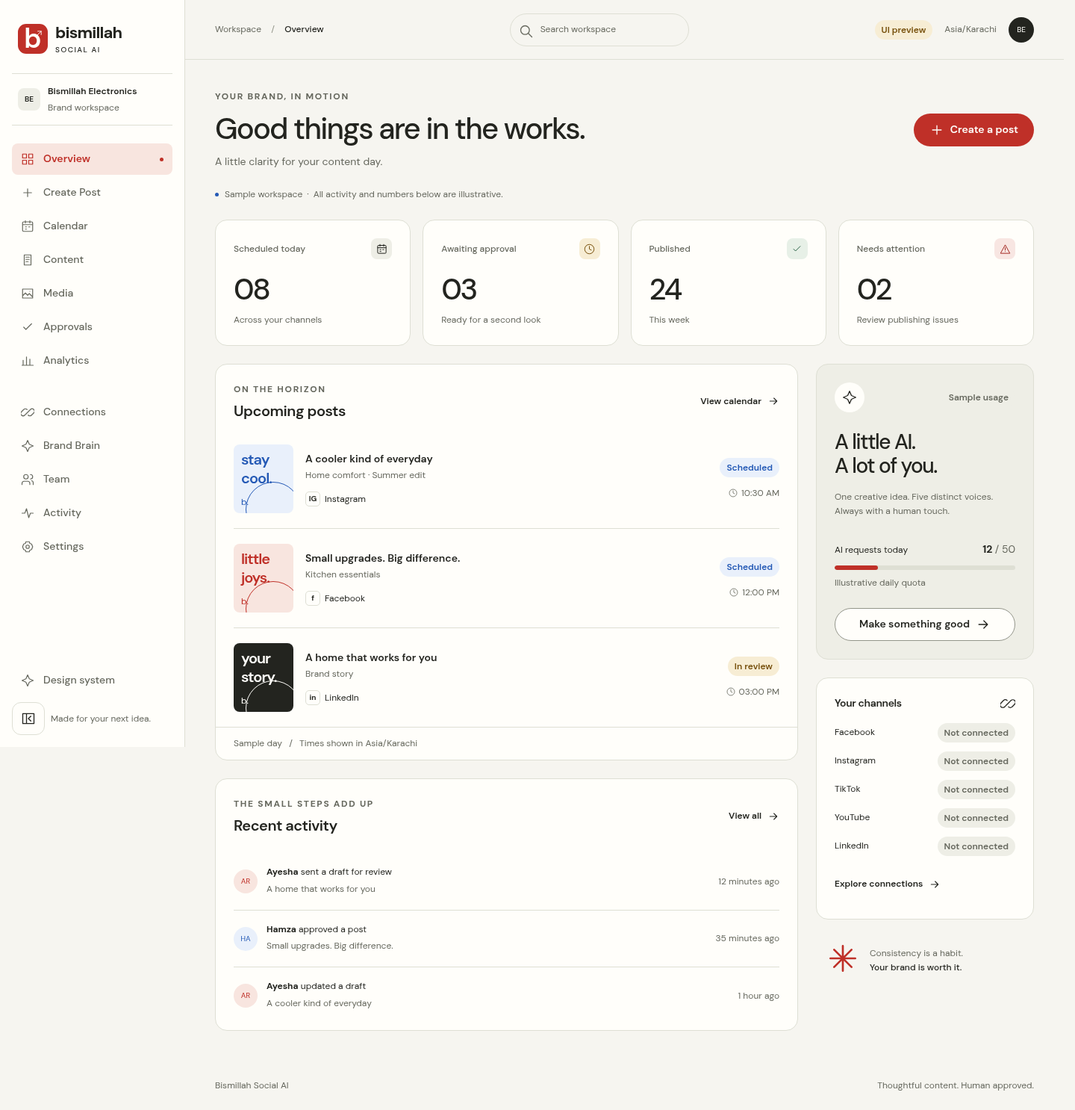
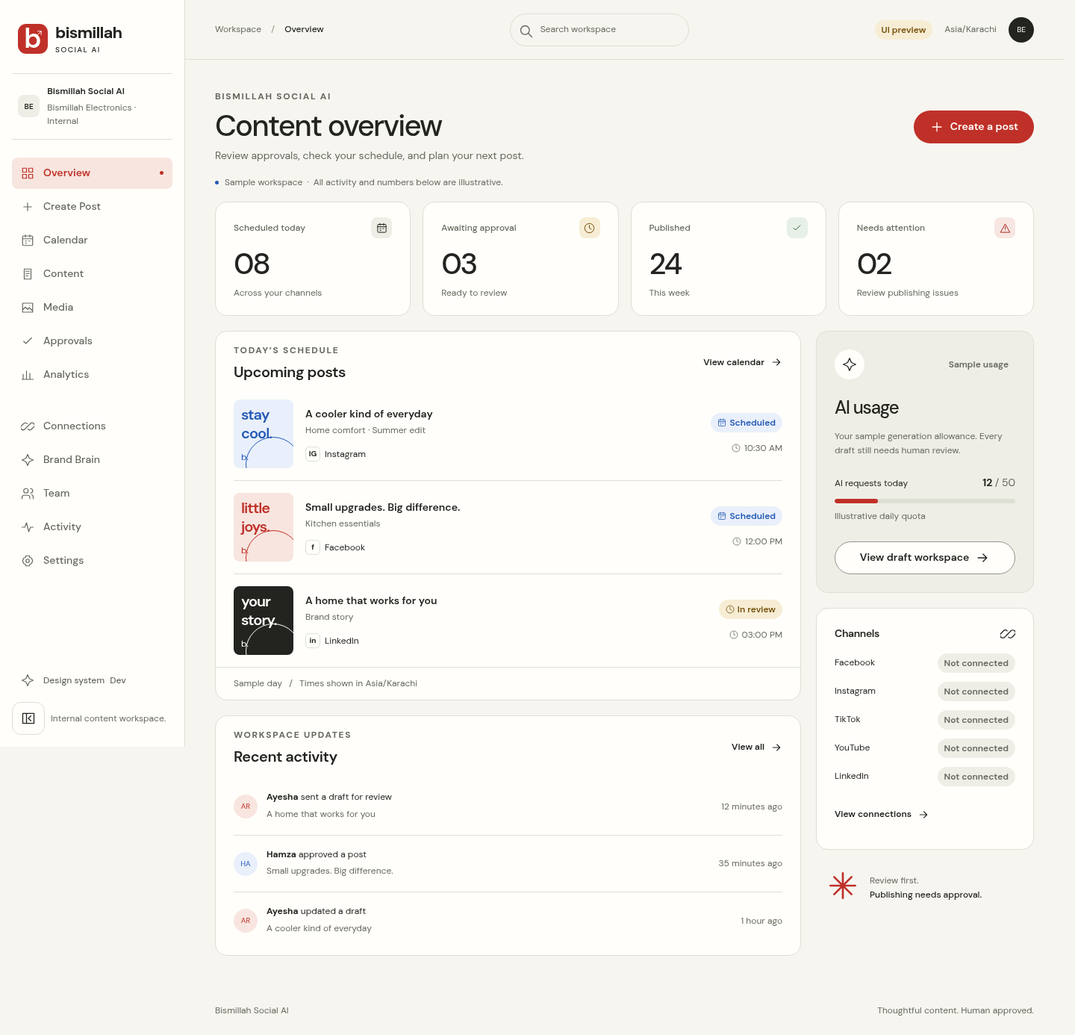
feat: establish phase 1 application shell and design system

diff --git a/src/features/overview/overview.tsx b/src/features/overview/overview.tsx
@@ -1,5 +1,5 @@
 import Link from 'next/link';
-import { Badge } from '../../components/ui/badge';
+import { Badge, StatusBadge } from '../../components/ui/badge';
 import { buttonClass } from '../../components/ui/button';
 import { Card } from '../../components/ui/card';
 import { Icon } from '../../components/ui/icon';
@@ -7,5 +7,5 @@ import { PageHeader } from '../../components/ui/page-header';
 import { sampleActivity, sampleMetrics, samplePosts } from './mock-data';
 
 export function Overview() {
-  return <><PageHeader eyebrow="YOUR BRAND, IN MOTION" title="Good things are in the works." description="A little clarity for your content day." action={<Link href="/create-post" className={buttonClass()}><Icon name="plus" /> Create a post</Link>} /><div className="sample-note"><span className="sample-dot" />Sample workspace <span aria-hidden="true">·</span> All activity and numbers below are illustrative.</div><div className="metrics-grid">{sampleMetrics.map((metric) => <Card key={metric.label} className="metric-card"><div className="metric-label"><h2>{metric.label}</h2><span className={`metric-icon metric-icon--${metric.tone}`}><Icon name={metric.icon} /></span></div><p className="metric-value">{metric.value}</p><p className="metric-note">{metric.note}</p></Card>)}</div><div className="overview-grid"><div className="overview-main"><Card className="upcoming-card"><header className="section-header"><div><p className="eyebrow">ON THE HORIZON</p><h2>Upcoming posts</h2></div><Link href="/calendar" className="text-link">View calendar <Icon name="arrow" /></Link></header><div className="post-list">{samplePosts.map((post) => <article key={post.title} className="post-row"><div className={`post-art post-art--${post.art}`} aria-hidden="true"><span>{post.art === 'cool' ? 'stay\ncool.' : post.art === 'warm' ? 'little\njoys.' : 'your\nstory.'}</span><span className="post-art-mark">b.</span></div><div className="post-info"><h3>{post.title}</h3><p>{post.category}</p><div className="post-channel"><span className="channel-mark">{post.initials}</span>{post.channel}</div></div><div className="post-meta"><Badge tone={post.tone}>{post.status}</Badge><span><Icon name="clock" />{post.time}</span></div></article>)}</div><footer className="card-footer">Sample day <span aria-hidden="true">/</span> Times shown in Asia/Karachi</footer></Card><Card className="activity-card"><header className="section-header"><div><p className="eyebrow">THE SMALL STEPS ADD UP</p><h2>Recent activity</h2></div><Link href="/activity" className="text-link">View all <Icon name="arrow" /></Link></header><ol className="activity-list">{sampleActivity.map((item) => <li key={item.detail}><span className={`activity-avatar activity-avatar--${item.tone}`}>{item.initials}</span><div><p><strong>{item.name}</strong> {item.action}</p><span>{item.detail}</span></div><small>{item.time}</small></li>)}</ol></Card></div><div className="overview-side"><Card className="ai-card"><header><span className="ai-icon"><Icon name="spark" /></span><Badge>Sample usage</Badge></header><h2>A little AI.<br />A lot of you.</h2><p>One creative idea. Five distinct voices. Always with a human touch.</p><div className="usage-caption"><span>AI requests today</span><strong>12 <span>/ 50</span></strong></div><progress max={50} value={12} aria-label="Sample AI requests today: 12 of 50" /><p className="usage-footnote">Illustrative daily quota</p><Link href="/create-post" className={buttonClass('secondary')}>Make something good <Icon name="arrow" /></Link></Card><Card className="channel-card"><div className="section-header"><h2>Your channels</h2><Icon name="link" /></div><div className="channel-stack">{['Facebook', 'Instagram', 'TikTok', 'YouTube', 'LinkedIn'].map((channel) => <div key={channel}><span>{channel}</span><Badge>Not connected</Badge></div>)}</div><Link href="/connections" className="text-link">Explore connections <Icon name="arrow" /></Link></Card><div className="brand-reminder"><span className="tiny-star"><Icon name="asterisk" /></span><p>Consistency is a habit.<br /><strong>Your brand is worth it.</strong></p></div></div></div></>;
+  return <div className="dashboard-overview"><PageHeader eyebrow="BISMILLAH SOCIAL AI" title="Content overview" description="Review approvals, check your schedule, and plan your next post." action={<Link href="/create-post" className={buttonClass()}><Icon name="plus" /> Create a post</Link>} /><div className="sample-note"><span className="sample-dot" />Sample workspace <span aria-hidden="true">·</span> All activity and numbers below are illustrative.</div><div className="metrics-grid">{sampleMetrics.map((metric) => <Card key={metric.label} className="metric-card"><div className="metric-label"><h2>{metric.label}</h2><span className={`metric-icon metric-icon--${metric.tone}`}><Icon name={metric.icon} /></span></div><p className="metric-value">{metric.value}</p><p className="metric-note">{metric.note}</p></Card>)}</div><div className="overview-grid"><div className="overview-main"><Card className="upcoming-card"><header className="section-header"><div><p className="eyebrow">TODAY’S SCHEDULE</p><h2>Upcoming posts</h2></div><Link href="/calendar" className="text-link">View calendar <Icon name="arrow" /></Link></header><div className="post-list">{samplePosts.map((post) => <article key={post.title} className="post-row"><div className={`post-art post-art--${post.art}`} aria-hidden="true"><span>{post.art === 'cool' ? 'stay\ncool.' : post.art === 'warm' ? 'little\njoys.' : 'your\nstory.'}</span><span className="post-art-mark">b.</span></div><div className="post-info"><h3>{post.title}</h3><p>{post.category}</p><div className="post-channel"><span className="channel-mark">{post.initials}</span>{post.channel}</div></div><div className="post-meta"><StatusBadge status={post.status} /><span><Icon name="clock" />{post.time}</span></div></article>)}</div><footer className="card-footer">Sample day <span aria-hidden="true">/</span> Times shown in Asia/Karachi</footer></Card><Card className="activity-card"><header className="section-header"><div><p className="eyebrow">WORKSPACE UPDATES</p><h2>Recent activity</h2></div><Link href="/activity" className="text-link">View all <Icon name="arrow" /></Link></header><ol className="activity-list">{sampleActivity.map((item) => <li key={item.detail}><span className={`activity-avatar activity-avatar--${item.tone}`}>{item.initials}</span><div><p><strong>{item.name}</strong> {item.action}</p><span>{item.detail}</span></div><small>{item.time}</small></li>)}</ol></Card></div><div className="overview-side"><Card className="ai-card"><header><span className="ai-icon"><Icon name="spark" /></span><Badge>Sample usage</Badge></header><h2>AI usage</h2><p>Your sample generation allowance. Every draft still needs human review.</p><div className="usage-caption"><span>AI requests today</span><strong>12 <span>/ 50</span></strong></div><progress max={50} value={12} aria-label="Sample AI requests today: 12 of 50" /><p className="usage-footnote">Illustrative daily quota</p><Link href="/create-post" className={buttonClass('secondary')}>View draft workspace <Icon name="arrow" /></Link></Card><Card className="channel-card"><div className="section-header"><h2>Channels</h2><Icon name="link" /></div><div className="channel-stack">{['Facebook', 'Instagram', 'TikTok', 'YouTube', 'LinkedIn'].map((channel) => <div key={channel}><span>{channel}</span><Badge>Not connected</Badge></div>)}</div><Link href="/connections" className="text-link">View connections <Icon name="arrow" /></Link></Card><div className="brand-reminder"><span className="tiny-star"><Icon name="asterisk" /></span><p>Review first.<br /><strong>Publishing needs approval.</strong></p></div></div></div></div>;
 }

diff --git a/src/features/design-system/component-showcase.tsx b/src/features/design-system/component-showcase.tsx
@@ -1,7 +1,7 @@
 'use client';
 
 import { useState } from 'react';
-import { Badge } from '../../components/ui/badge';
+import { StatusBadge, type StatusLabel } from '../../components/ui/badge';
 import { Button, IconButton } from '../../components/ui/button';
 import { Card } from '../../components/ui/card';
 import { Dialog } from '../../components/ui/dialog';
@@ -12,5 +12,5 @@ import { Tabs } from '../../components/ui/tabs';
 
 export function ComponentShowcase() {
   const [dialogOpen, setDialogOpen] = useState(false);
-  return <><div className="ui-kit-grid"><Card className="ui-kit-card"><h2>Buttons & controls</h2><div className="component-row"><Button onClick={() => setDialogOpen(true)}>Open dialog <Icon name="arrow" /></Button><Button variant="secondary" onClick={() => setDialogOpen(true)}>Secondary</Button><Button variant="ghost" onClick={() => setDialogOpen(true)}>Ghost</Button><Button disabled>Disabled</Button><IconButton label="Open preview dialog" onClick={() => setDialogOpen(true)}><Icon name="plus" /></IconButton></div></Card><Card className="ui-kit-card"><h2>Labels with meaning</h2><div className="component-row"><Badge>Draft</Badge><Badge tone="warning">In review</Badge><Badge tone="success">Approved</Badge><Badge tone="blue">Scheduled</Badge><Badge tone="danger">Needs attention</Badge></div></Card><Card className="ui-kit-card"><h2>Form foundations</h2><form className="component-stack" aria-label="Component preview form" onSubmit={(event) => event.preventDefault()}><Input id="sample-title" label="Internal title" placeholder="Give your idea a name" hint="A label for your team, not your audience." /><Textarea id="sample-brief" label="Campaign brief" placeholder="What’s the story?" /><Select id="sample-language" label="Language" defaultValue="English"><option>English</option><option>Urdu</option><option>Roman Urdu</option><option>Mixed</option></Select><Checkbox id="sample-checkbox" label="Show this preference in the preview" /><Input id="sample-error" label="Example invalid field" error="Please add a title." /></form></Card><Card className="ui-kit-card"><h2>Tabs & states</h2><Tabs label="Component states" items={[{ id: 'empty', label: 'Empty', content: <EmptyState title="A fresh canvas." description="There’s room here for your next idea." /> }, { id: 'loading', label: 'Loading', content: <LoadingState label="Loading preview" /> }, { id: 'error', label: 'Error', content: <ErrorState title="We couldn’t load this." description="Check your connection and try again." /> }]} /></Card></div><Dialog open={dialogOpen} onClose={() => setDialogOpen(false)} title="A little room to focus." description="This is a dialog preview. Nothing is saved or sent."><p>One clear decision. An accessible space to make it.</p><div className="component-row dialog-actions"><Button onClick={() => setDialogOpen(false)}>Got it</Button><Button variant="secondary" onClick={() => setDialogOpen(false)}>Close preview</Button></div></Dialog></>;
+  return <><div className="ui-kit-grid"><Card className="ui-kit-card"><h2>Buttons & controls</h2><div className="component-row"><Button onClick={() => setDialogOpen(true)}>Open dialog <Icon name="arrow" /></Button><Button variant="secondary" onClick={() => setDialogOpen(true)}>Secondary</Button><Button variant="ghost" onClick={() => setDialogOpen(true)}>Ghost</Button><Button disabled>Disabled</Button><IconButton label="Open preview dialog" onClick={() => setDialogOpen(true)}><Icon name="plus" /></IconButton></div></Card><Card className="ui-kit-card"><h2>Labels with meaning</h2><div className="component-row">{(['Draft', 'In review', 'Approved', 'Scheduled', 'Published', 'Needs attention', 'Failed'] as const satisfies readonly StatusLabel[]).map((status) => <StatusBadge key={status} status={status} />)}</div></Card><Card className="ui-kit-card"><h2>Form foundations</h2><form className="component-stack" aria-label="Component preview form" onSubmit={(event) => event.preventDefault()}><Input id="sample-title" label="Internal title" placeholder="Give your idea a name" hint="A label for your team, not your audience." /><Textarea id="sample-brief" label="Campaign brief" placeholder="What’s the story?" /><Select id="sample-language" label="Language" defaultValue="English"><option>English</option><option>Urdu</option><option>Roman Urdu</option><option>Mixed</option></Select><Checkbox id="sample-checkbox" label="Show this preference in the preview" /><Input id="sample-error" label="Example invalid field" error="Please add a title." /></form></Card><Card className="ui-kit-card"><h2>Tabs & states</h2><Tabs label="Component states" items={[{ id: 'empty', label: 'Empty', content: <EmptyState title="A fresh canvas." description="There’s room here for your next idea." /> }, { id: 'loading', label: 'Loading', content: <LoadingState label="Loading preview" /> }, { id: 'error', label: 'Error', content: <ErrorState title="We couldn’t load this." description="Check your connection and try again." /> }]} /></Card></div><Dialog open={dialogOpen} onClose={() => setDialogOpen(false)} title="A little room to focus." description="This is a dialog preview. Nothing is saved or sent."><p>One clear decision. An accessible space to make it.</p><div className="component-row dialog-actions"><Button onClick={() => setDialogOpen(false)}>Got it</Button><Button variant="secondary" onClick={() => setDialogOpen(false)}>Close preview</Button></div></Dialog></>;
 }

diff --git a/src/components/shell/app-shell.tsx b/src/components/shell/app-shell.tsx
@@ -31,5 +31,5 @@ export function AppShell({ children }: { children: ReactNode }) {
     media.addEventListener('change', closeOnDesktop);
     return () => media.removeEventListener('change', closeOnDesktop);
   }, []);
-  return <div className={classes('app-shell', collapsed && 'app-shell--collapsed')}><a className="skip-link" href="#main-content">Skip to content</a><aside className="sidebar" aria-label="Workspace sidebar"><div className="sidebar-brand"><Brand compact={collapsed} /></div>{!collapsed && <div className="workspace-label"><span className="workspace-avatar">BE</span><span>Bismillah Electronics<small>Brand workspace</small></span></div>}<Navigation pathname={pathname} collapsed={collapsed} /><div className="sidebar-footer"><Link href="/ui-kit" className="nav-link" aria-label={collapsed ? 'Design system' : undefined}><Icon name="spark" />{!collapsed && <span>Design system</span>}</Link><IconButton label={collapsed ? 'Expand sidebar' : 'Collapse sidebar'} aria-expanded={!collapsed} onClick={() => setCollapsed(!collapsed)}><Icon name="collapse" /></IconButton>{!collapsed && <span className="sidebar-version">Made for your next idea.</span>}</div></aside><div className="shell-body"><header className="topbar"><div className="topbar-start"><IconButton label="Open navigation" className="mobile-menu-button" aria-haspopup="dialog" aria-expanded={mobileOpen} onClick={() => setMobileOpen(true)}><Icon name="menu" /></IconButton><span className="breadcrumb">Workspace <span aria-hidden="true">/</span> <strong>{navigation.find((item) => item.href === pathname)?.label ?? 'Design system'}</strong></span></div><div className="header-search" title="Workspace search is a visual placeholder."><Icon name="search" /><Input id="workspace-search" label="Search workspace preview" type="search" placeholder="Search workspace" disabled /></div><div className="topbar-end"><Badge tone="warning">UI preview</Badge><span className="timezone">Asia/Karachi</span><span className="user-avatar" aria-label="Preview user">BE</span></div></header><main ref={main} id="main-content" tabIndex={-1} className="page-container">{children}</main><footer className="workspace-footer"><span>Bismillah Social AI</span><span>Thoughtful content. Human approved.</span></footer></div><Dialog open={mobileOpen} onClose={() => setMobileOpen(false)} title="Your workspace"><Navigation pathname={pathname} onNavigate={() => setMobileOpen(false)} /><Link className="nav-link" href="/ui-kit" onClick={() => setMobileOpen(false)}>Design system</Link></Dialog></div>;
+  return <div className={classes('app-shell', collapsed && 'app-shell--collapsed')}><a className="skip-link" href="#main-content">Skip to content</a><aside className="sidebar" aria-label="Workspace sidebar"><div className="sidebar-brand"><Brand compact={collapsed} /></div>{!collapsed && <div className="workspace-label"><span className="workspace-avatar">BE</span><span>Bismillah Social AI<small>Bismillah Electronics · Internal</small></span></div>}<Navigation pathname={pathname} collapsed={collapsed} /><div className="sidebar-footer"><Link href="/ui-kit" className="nav-link nav-link--development" title="Development component reference" aria-label={collapsed ? 'Design system' : undefined}><Icon name="spark" />{!collapsed && <span>Design system <small className="development-label">Dev</small></span>}</Link><IconButton label={collapsed ? 'Expand sidebar' : 'Collapse sidebar'} aria-expanded={!collapsed} onClick={() => setCollapsed(!collapsed)}><Icon name="collapse" /></IconButton>{!collapsed && <span className="sidebar-version">Internal content workspace.</span>}</div></aside><div className="shell-body"><header className="topbar"><div className="topbar-start"><IconButton label="Open navigation" className="mobile-menu-button" aria-haspopup="dialog" aria-expanded={mobileOpen} onClick={() => setMobileOpen(true)}><Icon name="menu" /></IconButton><span className="mobile-product-name">Bismillah Social AI</span><span className="breadcrumb">Workspace <span aria-hidden="true">/</span> <strong>{navigation.find((item) => item.href === pathname)?.label ?? 'Design system'}</strong></span></div><div className="header-search" title="Workspace search is a visual placeholder."><Icon name="search" /><Input id="workspace-search" label="Search workspace preview" type="search" placeholder="Search workspace" disabled /></div><div className="topbar-end"><Badge tone="warning">UI preview</Badge><span className="timezone">Asia/Karachi</span><span className="user-avatar" aria-label="Preview user">BE</span></div></header><main ref={main} id="main-content" tabIndex={-1} className="page-container">{children}</main><footer className="workspace-footer"><span>Bismillah Social AI</span><span>Thoughtful content. Human approved.</span></footer></div><Dialog open={mobileOpen} onClose={() => setMobileOpen(false)} title="Bismillah Social AI"><Navigation pathname={pathname} onNavigate={() => setMobileOpen(false)} /><Link className="nav-link nav-link--development" href="/ui-kit" onClick={() => setMobileOpen(false)}>Design system <small className="development-label">Dev</small></Link></Dialog></div>;
 }

diff --git a/src/styles/globals.css b/src/styles/globals.css
@@ -42,6 +42,7 @@ svg { flex-shrink: 0; }
 .badge--warning { color: var(--warning); background: var(--warning-soft); }
 .badge--danger { color: var(--danger); background: var(--danger-soft); }
 .badge--blue { color: var(--accent-blue); background: var(--blue-soft); }
+.status-badge svg { width: 12px; height: 12px; }
 .field { display: grid; gap: var(--space-1); }
 .field > label { font-size: var(--font-sm); font-weight: 600; }
 .input { width: 100%; min-width: 0; min-height: 48px; padding: 12px 14px; background: var(--surface); border: 1px solid var(--control-border); border-radius: var(--radius-control); color: var(--text); }
@@ -101,6 +102,22 @@ svg { flex-shrink: 0; }
 .sidebar-footer { margin-top: auto; padding-top: var(--space-4); display: flex; flex-wrap: wrap; align-items: center; gap: var(--space-1); }
 .sidebar-footer > a { width: 100%; }
 .sidebar-version { font-size: var(--font-xs); color: var(--muted); }
+.nav-link--development { font-size: var(--font-xs); }
+.development-label { margin-left: var(--space-half); font-size: var(--font-xs); color: var(--muted); }
+.mobile-product-name { display: none; }
+.dashboard-overview .page-header { margin-bottom: var(--space-2); }
+.dashboard-overview .page-header .eyebrow { margin-bottom: var(--space-1); }
+.dashboard-overview .page-description { margin-top: var(--space-1); }
+.dashboard-overview .sample-note { margin-bottom: var(--space-2); }
+.dashboard-overview .metric-card { padding-block: 20px; }
+.dashboard-overview .metric-value { margin: 12px 0 8px; }
+.dashboard-overview .metrics-grid { margin-bottom: 20px; }
+.dashboard-overview .overview-grid, .dashboard-overview .overview-main, .dashboard-overview .overview-side { gap: 20px; }
+.dashboard-overview .section-header { padding-block: var(--space-2); }
+.dashboard-overview .post-row { padding-block: var(--space-2); }
+.dashboard-overview .post-row:first-child { padding-top: var(--space-1); }
+.dashboard-overview .ai-card h2 { font-size: var(--font-xl); }
+.dashboard-overview .usage-caption { margin-top: var(--space-3); }
 .app-shell--collapsed .sidebar { padding-inline: 12px; }
 .app-shell--collapsed .sidebar-brand { padding-inline: 8px; }
 .app-shell--collapsed .nav-link { justify-content: center; padding: 10px; }
@@ -251,6 +268,7 @@ progress::-moz-progress-bar { background: var(--brand-primary); }
 .ui-kit-wide { grid-column: 1 / -1; }
 
 @media (max-width: 1279px) {
+  .dashboard-overview .metric-card { padding-block: var(--space-2); }
   .header-search { display: none; }
   .overview-grid { grid-template-columns: minmax(0, 1fr); }
   .overview-side { grid-template-columns: 1fr 1fr; }
@@ -279,8 +297,9 @@ progress::-moz-progress-bar { background: var(--brand-primary); }
   .topbar { height: 72px; padding-inline: var(--space-2); }
   .topbar-end { gap: var(--space-1); }
   .timezone, .breadcrumb, .user-avatar { display: none; }
-  .topbar-start::after { content: 'bismillah / social ai'; font-size: var(--font-xs); font-weight: 600; letter-spacing: -.02em; }
+  .mobile-product-name { display: inline; font-size: var(--font-xs); font-weight: 600; letter-spacing: -.02em; }
   .page-container { padding: var(--space-4) var(--space-2); }
+  .page-container:has(.dashboard-overview) { padding-top: var(--space-3); }
   .page-header { align-items: start; flex-direction: column; }
   .page-header-action { width: 100%; }
   .metrics-grid { grid-template-columns: repeat(2, minmax(0, 1fr)); gap: 12px; }

diff --git a/tests/browser/ui.spec.ts b/tests/browser/ui.spec.ts
@@ -4,7 +4,7 @@ test('desktop shell, collapse, routes, and safe preview form', async ({ page }) 
   const errors: string[] = [];
   page.on('pageerror', (error) => errors.push(error.message));
   await page.goto('/overview');
-  await expect(page.getByRole('heading', { level: 1 })).toHaveText('Good things are in the works.');
+  await expect(page.getByRole('heading', { level: 1 })).toHaveText('Content overview');
   await expect(page.getByRole('navigation', { name: 'Main navigation' }).getByRole('link')).toHaveCount(12);
   await page.getByRole('button', { name: 'Collapse sidebar' }).click();
   await expect(page.getByRole('link', { name: 'Brand Brain', exact: true })).toBeVisible();
@@ -24,7 +24,7 @@ test('mobile drawer traps focus, closes on Escape, restores focus, and navigates
   await page.goto('/overview');
   const trigger = page.getByRole('button', { name: 'Open navigation' });
   await trigger.click();
-  const dialog = page.getByRole('dialog', { name: 'Your workspace' });
+  const dialog = page.getByRole('dialog', { name: 'Bismillah Social AI' });
   await expect(dialog).toBeVisible();
   await page.keyboard.press('Shift+Tab');
   expect(await dialog.evaluate((element) => element.contains(document.activeElement))).toBe(true);
@@ -72,7 +72,7 @@ test('all navigation placeholders and error previews render without live service
 
 test('responsive surfaces fit narrow/mobile/tablet/desktop widths and respect reduced motion', async ({ page }) => {
   await page.emulateMedia({ reducedMotion: 'reduce' });
-  for (const width of [320, 390, 768, 1024, 1440]) {
+  for (const width of [320, 375, 390, 768, 1024, 1440]) {
     await page.setViewportSize({ width, height: 1000 });
     for (const route of ['/', '/login', '/overview', '/ui-kit', '/offline']) {
       await page.goto(route);
@@ -85,4 +85,30 @@ test('responsive surfaces fit narrow/mobile/tablet/desktop widths and respect re
   await page.goto('/ui-kit');
   await page.getByRole('tab', { name: 'Loading', exact: true }).click();
   expect(await page.locator('.loading-indicator').evaluate((element) => getComputedStyle(element).animationName)).toBe('none');
+});
+
+test('dashboard primary action and drawer controls stay usable at review widths', async ({ page }) => {
+  for (const width of [320, 375, 390, 768, 1440]) {
+    await page.setViewportSize({ width, height: 844 });
+    await page.goto('/overview');
+    const primary = page.getByRole('link', { name: 'Create a post', exact: true });
+    await expect(primary).toBeVisible();
+    await expect(primary).toHaveClass(/button--primary/);
+    await expect(page.locator('main a.button--primary')).toHaveCount(1);
+    await primary.focus();
+    await page.keyboard.press('Shift+Tab');
+    await page.keyboard.press('Tab');
+    await expect(primary).toBeFocused();
+    const box = await primary.boundingBox();
+    expect(box?.height).toBeGreaterThanOrEqual(44);
+    expect(await page.evaluate(() => document.documentElement.scrollWidth <= innerWidth)).toBe(true);
+    if (width < 960) {
+      await page.getByRole('button', { name: 'Open navigation' }).click();
+      const dialog = page.getByRole('dialog', { name: 'Bismillah Social AI' });
+      const close = dialog.getByRole('button', { name: 'Close dialog' });
+      await expect(close).toBeInViewport();
+      await close.click();
+      await expect(dialog).not.toBeVisible();
+    }
+  }
 });

diff --git a/src/features/overview/mock-data.ts b/src/features/overview/mock-data.ts
@@ -1,14 +1,14 @@
-import type { BadgeTone } from '../../components/ui/badge';
+import type { BadgeTone, StatusLabel } from '../../components/ui/badge';
 import type { IconName } from '../../components/ui/icon';
 
 /** Presentation fixtures only. No live account, publishing, analytics, or AI data. */
 export const sampleMetrics: readonly { label: string; value: string; note: string; icon: IconName; tone: BadgeTone }[] = [
   { label: 'Scheduled today', value: '08', note: 'Across your channels', icon: 'calendar', tone: 'neutral' },
-  { label: 'Awaiting approval', value: '03', note: 'Ready for a second look', icon: 'clock', tone: 'warning' },
+  { label: 'Awaiting approval', value: '03', note: 'Ready to review', icon: 'clock', tone: 'warning' },
   { label: 'Published', value: '24', note: 'This week', icon: 'check', tone: 'success' },
   { label: 'Needs attention', value: '02', note: 'Review publishing issues', icon: 'alert', tone: 'danger' },
 ];
-export const samplePosts: readonly { title: string; category: string; channel: string; initials: string; time: string; status: string; tone: BadgeTone; art: string }[] = [
+export const samplePosts: readonly { title: string; category: string; channel: string; initials: string; time: string; status: StatusLabel; tone: BadgeTone; art: string }[] = [
   { title: 'A cooler kind of everyday', category: 'Home comfort · Summer edit', channel: 'Instagram', initials: 'IG', time: '10:30 AM', status: 'Scheduled', tone: 'blue', art: 'cool' },
   { title: 'Small upgrades. Big difference.', category: 'Kitchen essentials', channel: 'Facebook', initials: 'f', time: '12:00 PM', status: 'Scheduled', tone: 'blue', art: 'warm' },
   { title: 'A home that works for you', category: 'Brand story', channel: 'LinkedIn', initials: 'in', time: '03:00 PM', status: 'In review', tone: 'warning', art: 'ink' },

diff --git a/tests/ui/components.test.tsx b/tests/ui/components.test.tsx
@@ -3,7 +3,7 @@ import { useState } from 'react';
 import { render, screen } from '@testing-library/react';
 import userEvent from '@testing-library/user-event';
 import { describe, expect, it } from 'vitest';
-import { Badge } from '../../src/components/ui/badge';
+import { Badge, StatusBadge } from '../../src/components/ui/badge';
 import { Button, IconButton } from '../../src/components/ui/button';
 import { Card } from '../../src/components/ui/card';
 import { Checkbox, Input, Select, Textarea } from '../../src/components/ui/fields';
@@ -13,6 +13,12 @@ import { EmptyState, ErrorState, LoadingState } from '../../src/components/ui/st
 import { PageHeader } from '../../src/components/ui/page-header';
 
 describe('accessible UI building blocks', () => {
+  it.each(['Draft', 'In review', 'Approved', 'Scheduled', 'Published', 'Needs attention', 'Failed'] as const)('renders %s with text and a decorative status symbol', (status) => {
+    render(<StatusBadge status={status} />);
+    const badge = screen.getByText(status);
+    expect(badge).toHaveClass('status-badge');
+    expect(badge.querySelector('svg')).toHaveAttribute('aria-hidden', 'true');
+  });
   it('renders semantic buttons, a named icon control, card, and readable badge', () => {
     render(<Card aria-label="Preview card"><Button disabled>Unavailable</Button><IconButton label="Open menu">+</IconButton><Badge tone="success">Approved</Badge></Card>);
     expect(screen.getByRole('button', { name: 'Unavailable' })).toBeDisabled();

diff --git a/src/components/ui/badge.tsx b/src/components/ui/badge.tsx
@@ -1,7 +1,24 @@
 import type { ComponentProps } from 'react';
 import { classes } from '../../lib/classes';
+import { Icon, type IconName } from './icon';
 
 export type BadgeTone = 'neutral' | 'success' | 'warning' | 'danger' | 'blue';
 export function Badge({ tone = 'neutral', className, ...props }: ComponentProps<'span'> & { tone?: BadgeTone }) {
   return <span {...props} className={classes('badge', `badge--${tone}`, className)} />;
+}
+
+export type StatusLabel = 'Draft' | 'In review' | 'Approved' | 'Scheduled' | 'Published' | 'Needs attention' | 'Failed';
+const statusAppearance: Record<StatusLabel, { tone: BadgeTone; icon: IconName }> = {
+  Draft: { tone: 'neutral', icon: 'content' },
+  'In review': { tone: 'warning', icon: 'clock' },
+  Approved: { tone: 'success', icon: 'check' },
+  Scheduled: { tone: 'blue', icon: 'calendar' },
+  Published: { tone: 'success', icon: 'arrow' },
+  'Needs attention': { tone: 'danger', icon: 'alert' },
+  Failed: { tone: 'danger', icon: 'close' },
+};
+/** Visual vocabulary only; does not implement workflow transitions. */
+export function StatusBadge({ status }: { status: StatusLabel }) {
+  const appearance = statusAppearance[status];
+  return <Badge tone={appearance.tone} className="status-badge"><Icon name={appearance.icon} />{status}</Badge>;
 }

diff --git a/tests/ui/shell-and-pages.test.tsx b/tests/ui/shell-and-pages.test.tsx
@@ -34,7 +34,7 @@ describe('workspace shell and presentation pages', () => {
     const user = userEvent.setup();
     render(<AppShell><h1>Preview</h1></AppShell>);
     await user.click(screen.getByRole('button', { name: 'Open navigation' }));
-    const dialog = screen.getByRole('dialog', { name: 'Your workspace' });
+    const dialog = screen.getByRole('dialog', { name: 'Bismillah Social AI' });
     expect(within(dialog).getAllByRole('link')).toHaveLength(13);
     await user.click(within(dialog).getByRole('button', { name: 'Close dialog' }));
     expect(screen.queryByRole('dialog')).not.toBeInTheDocument();
